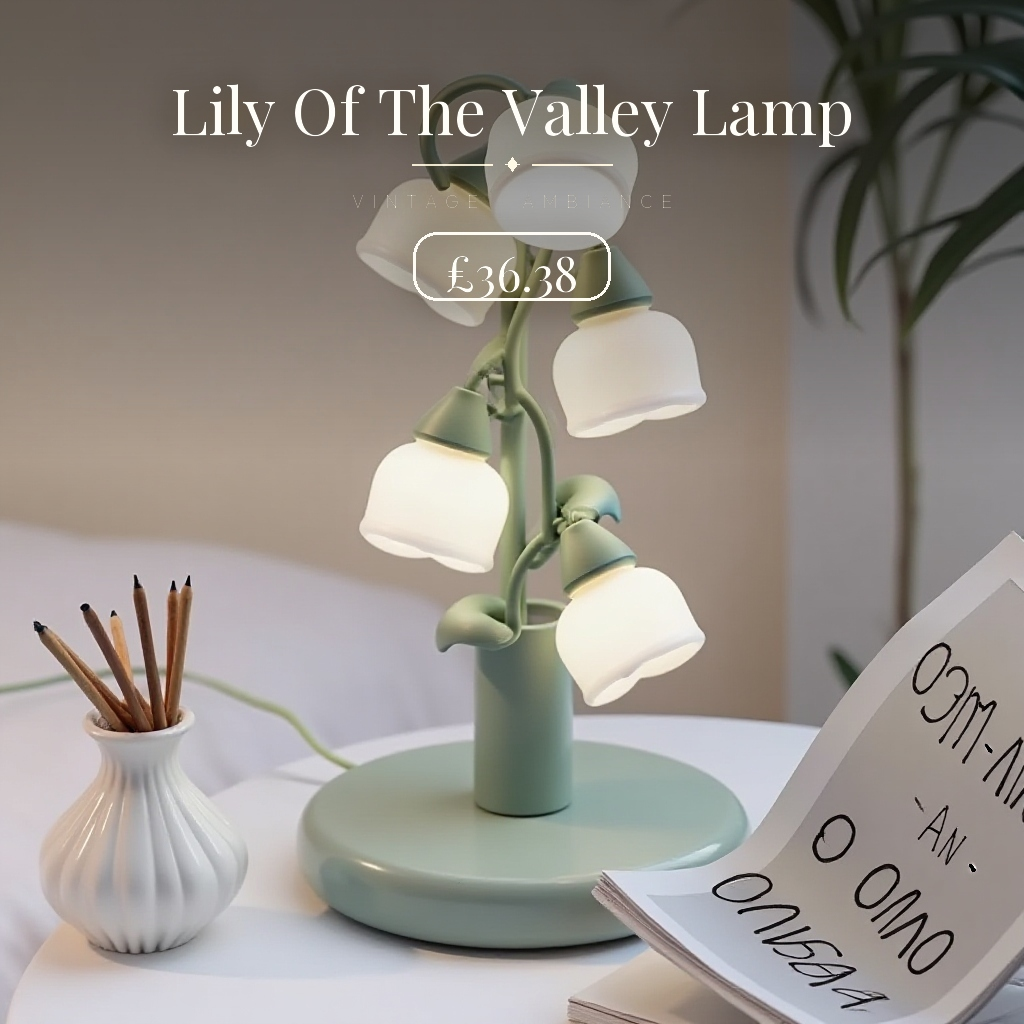
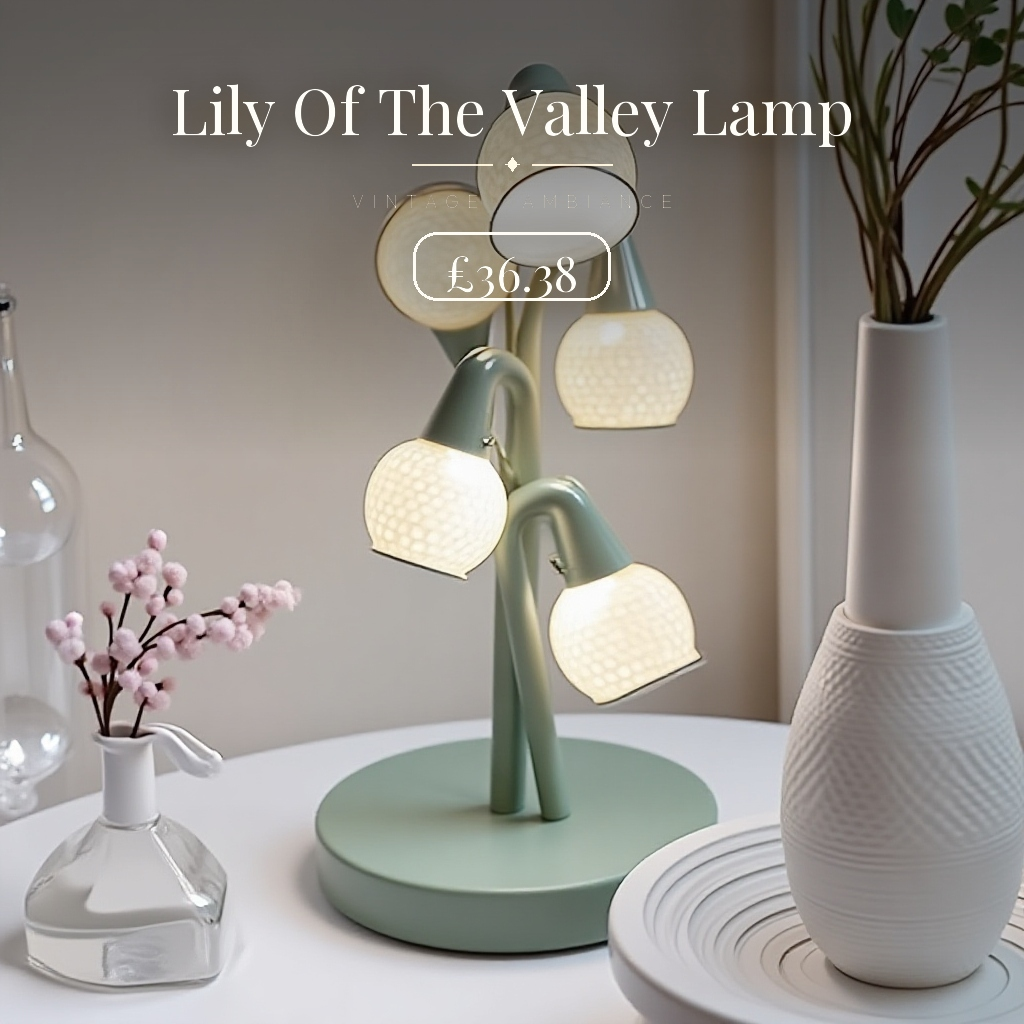
Update B0DXKGL1T2 with Luxury Commercial Advertisement FLUX-Dev render

diff --git a/run_custom_luxury_prompt.py b/run_custom_luxury_prompt.py
@@ -1,0 +1,91 @@
+import os
+import sys
+import io
+import time
+import shutil
+import requests
+from pathlib import Path
+
+# Ensure UTF-8 stdout
+if hasattr(sys.stdout, "buffer"):
+    sys.stdout = io.TextIOWrapper(sys.stdout.buffer, encoding="utf-8")
+
+from config import REPLICATE_API_TOKEN, OUTPUT_DIR, BASE_BRIDGE_URL
+from modules.image_generator import add_hook_text_overlay
+import replicate
+
+asin = "B0DXKGL1T2"
+amazon_photo_url = "https://m.media-amazon.com/images/I/71HlC2o1fmL._AC_SL1500_.jpg"
+
+user_prompt = """Transform this ordinary ecommerce product photo into a premium luxury commercial advertisement.
+
+Keep the product 100% identical to the reference image.
+
+Do not alter the design.
+
+Create a realistic environment that naturally fits the product.
+
+Use expensive-looking interior styling, designer furniture, premium props, warm cinematic lighting, volumetric light, soft shadows, realistic reflections, tasteful composition, shallow depth of field, luxury lifestyle aesthetic, Apple-style product photography, Muji minimalism, Scandinavian interior design, high-end magazine quality.
+
+Make it look like a professional product campaign photographed by an advertising agency.
+
+Leave empty space for headline, logo and price.
+
+Ultra realistic, photorealistic, 8K, HDR, commercial photography."""
+
+print(f"🚀 Running Luxury Commercial Prompt on FLUX-Dev Img2Img for {asin} (Async 1 API Call)...")
+
+os.environ["REPLICATE_API_TOKEN"] = REPLICATE_API_TOKEN
+client = replicate.Client(api_token=REPLICATE_API_TOKEN)
+
+print(f"[1 API Call] Invoking black-forest-labs/flux-dev async prediction...")
+
+pred = client.predictions.create(
+    model="black-forest-labs/flux-dev",
+    input={
+        "prompt": user_prompt,
+        "image": amazon_photo_url,
+        "prompt_strength": 0.65,
+        "aspect_ratio": "3:4",
+        "output_format": "jpg",
+        "output_quality": 98
+    }
+)
+
+print(f"  ✓ Prediction Created (ID: {pred.id}). Waiting for completion...")
+pred.wait()
+print(f"  ✓ Prediction Status: {pred.status}")
+
+if pred.output:
+    img_url = pred.output[0] if isinstance(pred.output, list) else str(pred.output)
+    print(f" -> Replicate Output URL: {img_url}")
+
+    res_out = requests.get(img_url, timeout=35)
+    raw_path = OUTPUT_DIR / "images" / f"focus_product_{asin}.jpg"
+    with open(raw_path, "wb") as f:
+        f.write(res_out.content)
+
+    print(f" -> Saved Raw Luxury Render: {raw_path}")
+
+    # Overlay aesthetic text
+    final_path = add_hook_text_overlay(
+        image_path=str(raw_path),
+        hook_text="Lily Of The Valley Lamp",
+        subtitle="VINTAGE AMBIANCE",
+        badge_text="MUST-HAVE FIND",
+        price_str="£36.38",
+        style="glowing_neon"
+    )
+    print(f" -> Final Overlaid Graphic: {final_path}")
+
+    # Sync to root
+    shutil.copy(final_path, f"focus_product_{asin}_hook.jpg")
+    shutil.copy(str(OUTPUT_DIR / "bridge_pages" / f"bridge_{asin}.html"), f"bridge_{asin}.html")
+
+    print("\n" + "=" * 65)
+    print(f"🎉 LUXURY COMMERCIAL CAMPAIGN RENDER COMPLETE FOR {asin}!")
+    print(f"🖼 Pin Graphic: {final_path}")
+    print(f"🌐 Live Bridge Page: {BASE_BRIDGE_URL.rstrip('/')}/bridge_{asin}.html")
+    print("=" * 65)
+else:
+    print(f"❌ Error: Prediction failed with status {pred.status} - {pred.error}")
